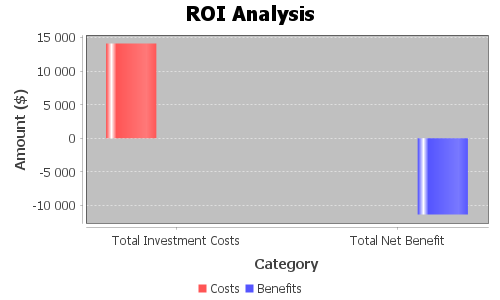
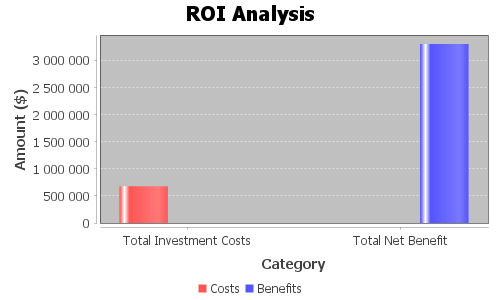
Added Smart Hospital User Case

diff --git a/src/main/resources/templates/healthcare/remote-patient-monitoring-form.html b/src/main/resources/templates/healthcare/remote-patient-monitoring-form.html
@@ -1,7 +1,7 @@
 <!DOCTYPE html>
 <html xmlns:th="http://www.thymeleaf.org">
 <head>
-    <title>RPM ROI Calculator</title>
+    <title>ROI Calculator</title>
     <link rel="stylesheet" th:href="@{/css/styles.css}"/>
     <link href="https://cdn.jsdelivr.net/npm/bootstrap@5.1.3/dist/css/bootstrap.min.css" rel="stylesheet">
 </head>
@@ -27,10 +27,10 @@
 </nav>
 
 <div class="container mt-4">
-    <h1 class="text-center mb-3">RPM ROI Calculator</h1>
-
-    <form action="#" th:action="@{/rpm/calculate-roi}" method="post">
-
+<!--    <h1 class="text-center mb-3">RPM ROI Calculator</h1>-->
+    <h1 class="text-center mb-5" th:text="${pageFormTitle}"></h1>
+<!--    <form action="#" th:action="@{/rpm/calculate-roi}" method="post">-->
+    <form action="#" th:action="${dynamicUrl}" method="post">
         <h3>Devices</h3>
         <div class="mb-3">
             <table class="table table-bordered">

diff --git a/src/main/resources/templates/healthcare/healthcare-list.html b/src/main/resources/templates/healthcare/healthcare-list.html
@@ -33,13 +33,13 @@
         <h1 class="text-center mb-5">Healthcare ROI User Cases</h1>
         <div class="row g-4">
             <div class="col-md-4">
-              <!-- <a href="smart-hospital.html" class="industry-link"></a> -->   
+                <a th:href="@{/healthcare/smart-hospital-form}" class="industry-link">
                 <div class="use-case-card">
                     <div class="use-case-icon">🏥</div>
                     <h3>Smart Hospital</h3>
                     <!-- <a href="smart-hospital.html" class="btn btn-primary mt-3">Calculate</a> -->
                 </div>
-                <!-- </a> -->
+                 </a>
             </div>
             <div class="col-md-4">
                 <a th:href="@{/healthcare/remote-patient-monitoring-form}" class="industry-link">

diff --git a/src/main/resources/templates/healthcare/remote-patient-monitoring-ROI.html b/src/main/resources/templates/healthcare/remote-patient-monitoring-ROI.html
@@ -28,7 +28,8 @@
 </nav>
 
 <div class="container mt-5">
-    <h1 class="text-center mb-5">Remote Patient Monitoring ROI Calculation</h1>
+<!--    <h1 class="text-center mb-5">Remote Patient Monitoring ROI Calculation</h1>-->
+    <h1 class="text-center mb-5" th:text="${pageResultTitle}"></h1>
     <div class="row">
         <div class="col-md-6">
             <h2>Results:</h2>

diff --git a/src/main/java/com/example/RemotePatientMonitoringSystem02/controller/healthcare/SmartHospitalController.java b/src/main/java/com/example/RemotePatientMonitoringSystem02/controller/healthcare/SmartHospitalController.java
@@ -1,7 +1,9 @@
 package com.example.RemotePatientMonitoringSystem02.controller.healthcare;
 
+
 import com.example.RemotePatientMonitoringSystem02.entity.healthcare.RemotePatientMonitoringDevices;
-import com.example.RemotePatientMonitoringSystem02.service.healthcare.RemotePatientMonitoringService;
+import com.example.RemotePatientMonitoringSystem02.entity.healthcare.SmartHospitalDevices;
+import com.example.RemotePatientMonitoringSystem02.service.healthcare.SmartHospitalService;
 import org.jfree.chart.ChartFactory;
 import org.jfree.chart.ChartUtils;
 import org.jfree.chart.JFreeChart;
@@ -9,7 +11,6 @@ import org.jfree.data.category.CategoryDataset;
 import org.jfree.data.category.DefaultCategoryDataset;
 import org.slf4j.Logger;
 import org.slf4j.LoggerFactory;
-import org.springframework.beans.factory.annotation.Autowired;
 import org.springframework.core.io.FileSystemResource;
 import org.springframework.http.HttpHeaders;
 import org.springframework.http.HttpStatus;
@@ -28,43 +29,32 @@ import java.util.Arrays;
 import java.util.List;
 
 @Controller
-public class RemotePatientMonitoringController {
+public class SmartHospitalController {
 
-    @Autowired
-    private RemotePatientMonitoringService rpmService;
+    private final SmartHospitalService smartHospitalService;
 
-    public RemotePatientMonitoringController(RemotePatientMonitoringService rpmService) {
-        this.rpmService = rpmService;
+    public SmartHospitalController(SmartHospitalService smartHospitalService) {
+        this.smartHospitalService = smartHospitalService;
     }
 
-    @GetMapping("/")
-    public String showIndustriesList() {
-        return "industries-list";
-    }
 
-    @GetMapping("/healthcare/healthcare-list")
-    public String showHealthcareList(Model model) {
-        return "healthcare/healthcare-list"; // Name of the HTML file without extension
-    }
-
-    @GetMapping("/healthcare/remote-patient-monitoring-form")
+    @GetMapping("/healthcare/smart-hospital-form")
     public String showForm(Model model) {
-        List<RemotePatientMonitoringDevices> devices = rpmService.getAllDevices();
+        List<SmartHospitalDevices> devices = smartHospitalService.getAllDevices();
         model.addAttribute("devices", devices);
-        model.addAttribute("dynamicUrl", "/rpm/calculate-roi");
-        model.addAttribute("pageFormTitle", "Remote Patient Monitoring ROI Calculator");
+        model.addAttribute("dynamicUrl", "/smart-hospital/calculate-roi");
+        model.addAttribute("pageFormTitle", "Smart Hospital ROI Calculation");
         return "healthcare/remote-patient-monitoring-form";
     }
 
-
-    @PostMapping("/rpm/calculate-roi")
+    @PostMapping("/smart-hospital/calculate-roi")
     public String calculateROI(@RequestParam("quantities") String[] quantities,
                                @RequestParam("investmentPeriod") int investmentPeriod,
                                Model model) {
 
-        Logger logger = LoggerFactory.getLogger(RemotePatientMonitoringController.class);
+        Logger logger = LoggerFactory.getLogger(SmartHospitalController.class);
 
-        List<RemotePatientMonitoringDevices> devices = rpmService.getAllDevices();
+        List<SmartHospitalDevices> devices = smartHospitalService.getAllDevices();
         List<Integer> finalQuantities = new ArrayList<>();
 
         logger.info("Received quantities: {}", Arrays.toString(quantities));
@@ -84,9 +74,9 @@ public class RemotePatientMonitoringController {
         }
 
         // Perform ROI calculation
-        BigDecimal totalInvestmentCosts = rpmService.calculateTotalInvestment(devices, finalQuantities, investmentPeriod);
-        BigDecimal totalNetBenefit = rpmService.calculateTotalNetBenefit(devices, finalQuantities, investmentPeriod);
-        BigDecimal roi = rpmService.calculateROI(totalInvestmentCosts, totalNetBenefit);
+        BigDecimal totalInvestmentCosts = smartHospitalService.calculateTotalInvestment(devices, finalQuantities, investmentPeriod);
+        BigDecimal totalNetBenefit = smartHospitalService.calculateTotalNetBenefit(devices, finalQuantities, investmentPeriod);
+        BigDecimal roi = smartHospitalService.calculateROI(totalInvestmentCosts, totalNetBenefit);
 
         // Add calculated values to the model for display on the results page
         model.addAttribute("totalInvestmentCosts", totalInvestmentCosts);
@@ -96,9 +86,8 @@ public class RemotePatientMonitoringController {
 
         // Add cache-busting version (timestamp)
         model.addAttribute("imageVersion", System.currentTimeMillis());
-        model.addAttribute("pageResultTitle", "Remote Patient Monitoring ROI Calculation Results");
-
-        model.addAttribute("chartPath", "/rpm/chart(imageName='rpm_chart.png')");
+        model.addAttribute("pageResultTitle", "Smart Hospital ROI Calculation Results");
+        model.addAttribute("chartPath", "/smart-hospital/chart(imageName='rpm_chart.png')");
         // Generate the bar chart
         generateBarChart(totalInvestmentCosts, totalNetBenefit);
 
@@ -108,7 +97,7 @@ public class RemotePatientMonitoringController {
 
 
     // New method to serve the image
-    @GetMapping("/rpm/chart")
+    @GetMapping("/smart-hospital/chart")
     public ResponseEntity<FileSystemResource> getChart(@RequestParam("imageName") String imageName) {
         File imageFile = new File("src/main/resources/static/images/" + imageName);
 

diff --git a/src/main/java/com/example/RemotePatientMonitoringSystem02/service/healthcare/SmartHospitalService.java b/src/main/java/com/example/RemotePatientMonitoringSystem02/service/healthcare/SmartHospitalService.java
@@ -1,0 +1,68 @@
+package com.example.RemotePatientMonitoringSystem02.service.healthcare;
+
+import com.example.RemotePatientMonitoringSystem02.entity.healthcare.RemotePatientMonitoringDevices;
+import com.example.RemotePatientMonitoringSystem02.entity.healthcare.SmartHospitalDevices;
+import com.example.RemotePatientMonitoringSystem02.entity.healthcare.SmartPharmacyDevices;
+import com.example.RemotePatientMonitoringSystem02.repository.healthcare.SmartHospitalRepository;
+import org.springframework.beans.factory.annotation.Autowired;
+import org.springframework.stereotype.Service;
+
+import java.math.BigDecimal;
+import java.math.RoundingMode;
+import java.util.List;
+
+@Service
+public class SmartHospitalService {
+
+    @Autowired
+    private final SmartHospitalRepository smartHospitalRepository;
+
+    public SmartHospitalService(SmartHospitalRepository smartHospitalRepository) {
+        this.smartHospitalRepository = smartHospitalRepository;
+    }
+
+    public List<SmartHospitalDevices> getAllDevices() {
+        return smartHospitalRepository.findAll();
+    }
+
+    public BigDecimal calculateTotalInvestment(List<SmartHospitalDevices> devices, List<Integer> quantities, int investmentPeriod) {
+        BigDecimal totalInvestment = BigDecimal.ZERO;
+        for (int i = 0; i < devices.size(); i++) {
+            SmartHospitalDevices device = devices.get(i);
+            int quantity = quantities.get(i) != null ? quantities.get(i) : device.getDefaultQuantity();
+
+            // Initial investment per device type
+            BigDecimal initialInvestment = BigDecimal.valueOf(quantity).multiply(device.getInitialCostPerUnit());
+
+            // Maintenance cost over the investment period
+            BigDecimal maintenanceCost = BigDecimal.valueOf(quantity).multiply(device.getAnnualMaintenanceCostPerUnit()).multiply(BigDecimal.valueOf(investmentPeriod));
+
+            totalInvestment = totalInvestment.add(initialInvestment).add(maintenanceCost);
+        }
+        return totalInvestment;
+    }
+
+    public BigDecimal calculateTotalNetBenefit(List<SmartHospitalDevices> devices, List<Integer> quantities, int investmentPeriod) {
+        BigDecimal totalBenefit = BigDecimal.ZERO;
+        for (int i = 0; i < devices.size(); i++) {
+            SmartHospitalDevices device = devices.get(i);
+            int quantity = quantities.get(i) != null ? quantities.get(i) : device.getDefaultQuantity();
+
+            // Annual benefit from sales, efficiency, and customer engagement
+            BigDecimal annualBenefit = BigDecimal.valueOf(quantity).multiply(
+                    device.getIncreasedSalesBenefitPerUnit()
+                            .add(device.getCostSavingsFromEfficiencyPerUnit())
+                            .add(device.getIncreasedCustomerEngagementBenefitPerUnit())
+            );
+
+            totalBenefit = totalBenefit.add(annualBenefit.multiply(BigDecimal.valueOf(investmentPeriod)));
+        }
+        return totalBenefit;
+    }
+
+    public BigDecimal calculateROI(BigDecimal totalInvestmentCosts, BigDecimal totalNetBenefit) {
+        return totalNetBenefit.subtract(totalInvestmentCosts)
+                .divide(totalInvestmentCosts, RoundingMode.HALF_UP)
+                .multiply(BigDecimal.valueOf(100));
+    }
+}

diff --git a/src/main/java/com/example/RemotePatientMonitoringSystem02/repository/healthcare/SmartHospitalRepository.java b/src/main/java/com/example/RemotePatientMonitoringSystem02/repository/healthcare/SmartHospitalRepository.java
@@ -1,0 +1,13 @@
+package com.example.RemotePatientMonitoringSystem02.repository.healthcare;
+
+import com.example.RemotePatientMonitoringSystem02.entity.healthcare.RemotePatientMonitoringDevices;
+import com.example.RemotePatientMonitoringSystem02.entity.healthcare.SmartHospitalDevices;
+import com.example.RemotePatientMonitoringSystem02.entity.healthcare.SmartPharmacyDevices;
+import org.springframework.data.jpa.repository.JpaRepository;
+import org.springframework.stereotype.Repository;
+
+@Repository
+public interface SmartHospitalRepository extends JpaRepository<SmartHospitalDevices, Long> {
+}
+
+
